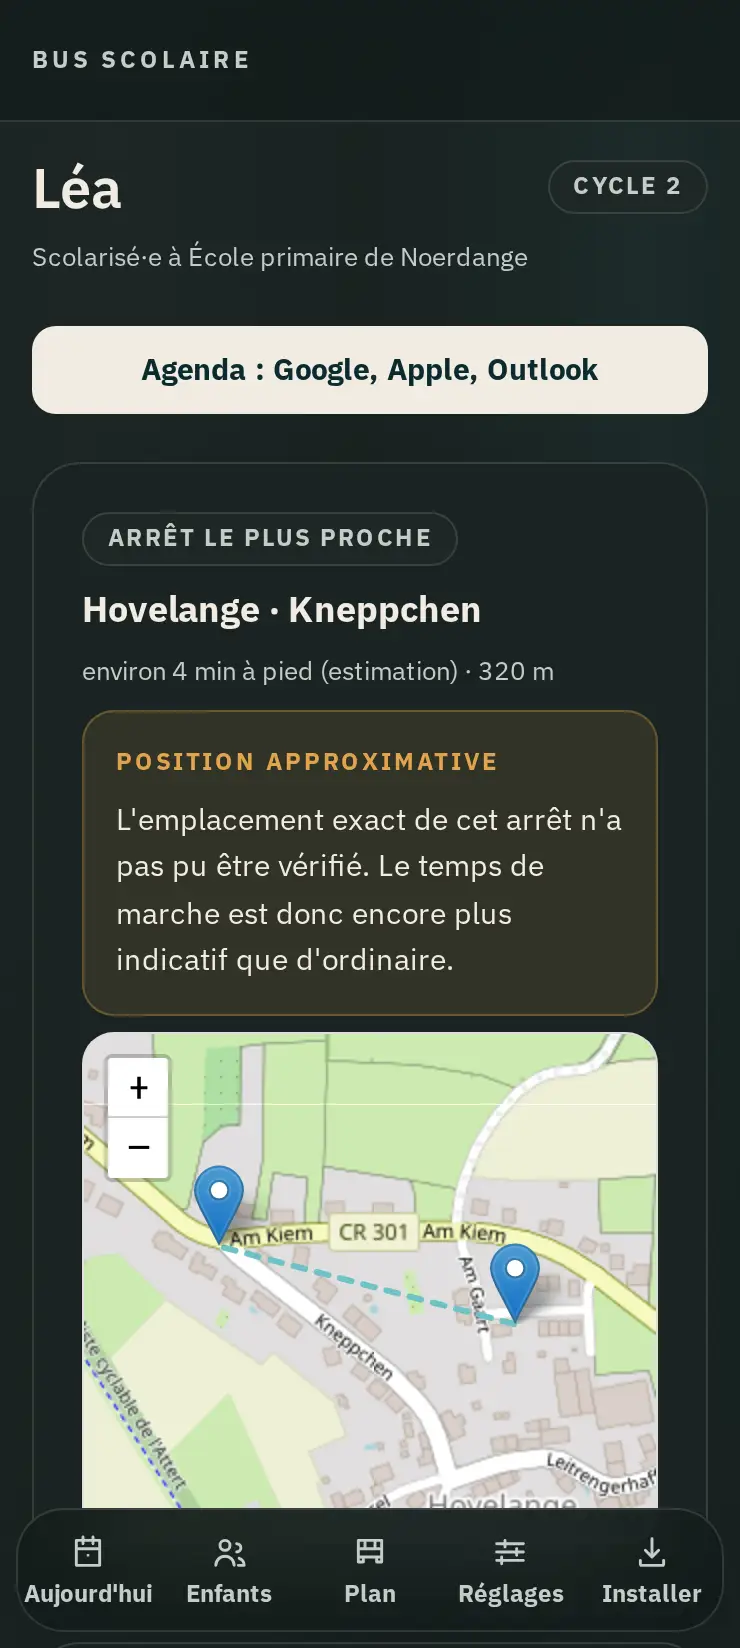
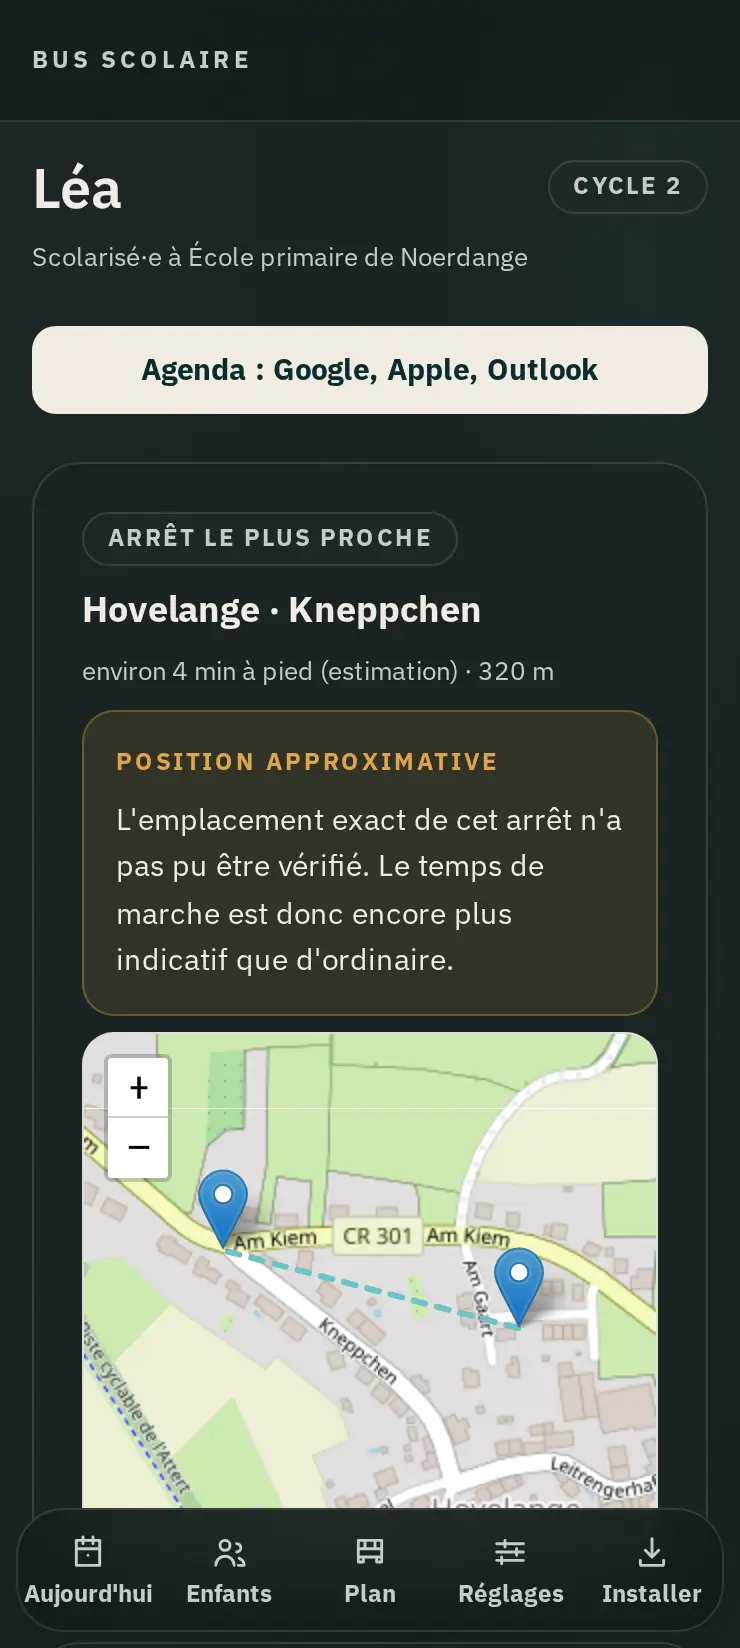
fix(captures): donner le clic sans défiler, et la carte redevient reproductible
Leaflet calcule son origine en pixels à l'instant de son initialisation, donc à
la position où le défilement du clic l'a laissé — laquelle variait de quelques
pixels. Deux états stables tirés au sort, cinq semaine-* sur dix qui changeaient
sans que rien n'ait changé ; la géométrie de la page, elle, était identique au
pixel près.

Le clic est maintenant donné dans la page, depuis le haut du document, après que
le document s'est tu : la carte s'initialise toujours au même endroit. Trois
exécutions de suite rendent les quarante mêmes fichiers.

Le manifeste déclare l'écran qui demande sa carte (demandeCarte) au lieu de la
deviner : le bouton était parfois absent sur un runner lent, et l'échec parlait
alors de la carte au lieu du bouton.

Claude-Session: https://claude.ai/code/session_016M6rDqUKVCa6XWP7XvzMEa

diff --git a/src/contenu/captures.ts b/src/contenu/captures.ts
@@ -82,6 +82,20 @@ export type Ecran = {
    * à l'identique par quelqu'un d'autre.
    */
   cadrer?: string
+
+  /**
+   * L'écran porte-t-il une carte à DEMANDER avant de pouvoir être photographié ?
+   *
+   * L'application ne dessine plus le trajet à pied d'elle-même : les tuiles
+   * d'OpenStreetMap voient les environs du domicile, et elle ne les appelle donc que si
+   * le parent le demande. Le script clique le vrai bouton, dans la vraie langue.
+   *
+   * Déclaré ici plutôt que deviné à l'exécution : la première version cherchait le bouton
+   * et passait son chemin s'il n'y était pas encore. Sur un runner lent, il n'y était
+   * parfois pas — et l'écran de la semaine échouait alors sur une carte qu'on n'avait
+   * jamais demandée, en annonçant l'absence de la carte plutôt que celle du bouton.
+   */
+  demandeCarte?: boolean
 }
 
 /*
@@ -92,7 +106,7 @@ export type Ecran = {
 export const ECRANS: Ecran[] = [
   // Le lien « Voir la semaine » d'une carte d'enfant : pas de carte, pas de lien.
   { nom: 'aujourdhui', chemin: '/', pret: 'a[href*="/enfant/"]', parEnfant: true },
-  { nom: 'semaine', chemin: '/enfant/partage-0', pret: '.leaflet-container' },
+  { nom: 'semaine', chemin: '/enfant/partage-0', pret: '.leaflet-container', demandeCarte: true },
   // Le haut de `/plan` porte les avertissements ; ce qu'on veut montrer, ce sont les
   // horaires recopiés. On cadre donc sur le premier tableau.
   { nom: 'plan', chemin: '/plan', pret: 'table', cadrer: 'table' },
